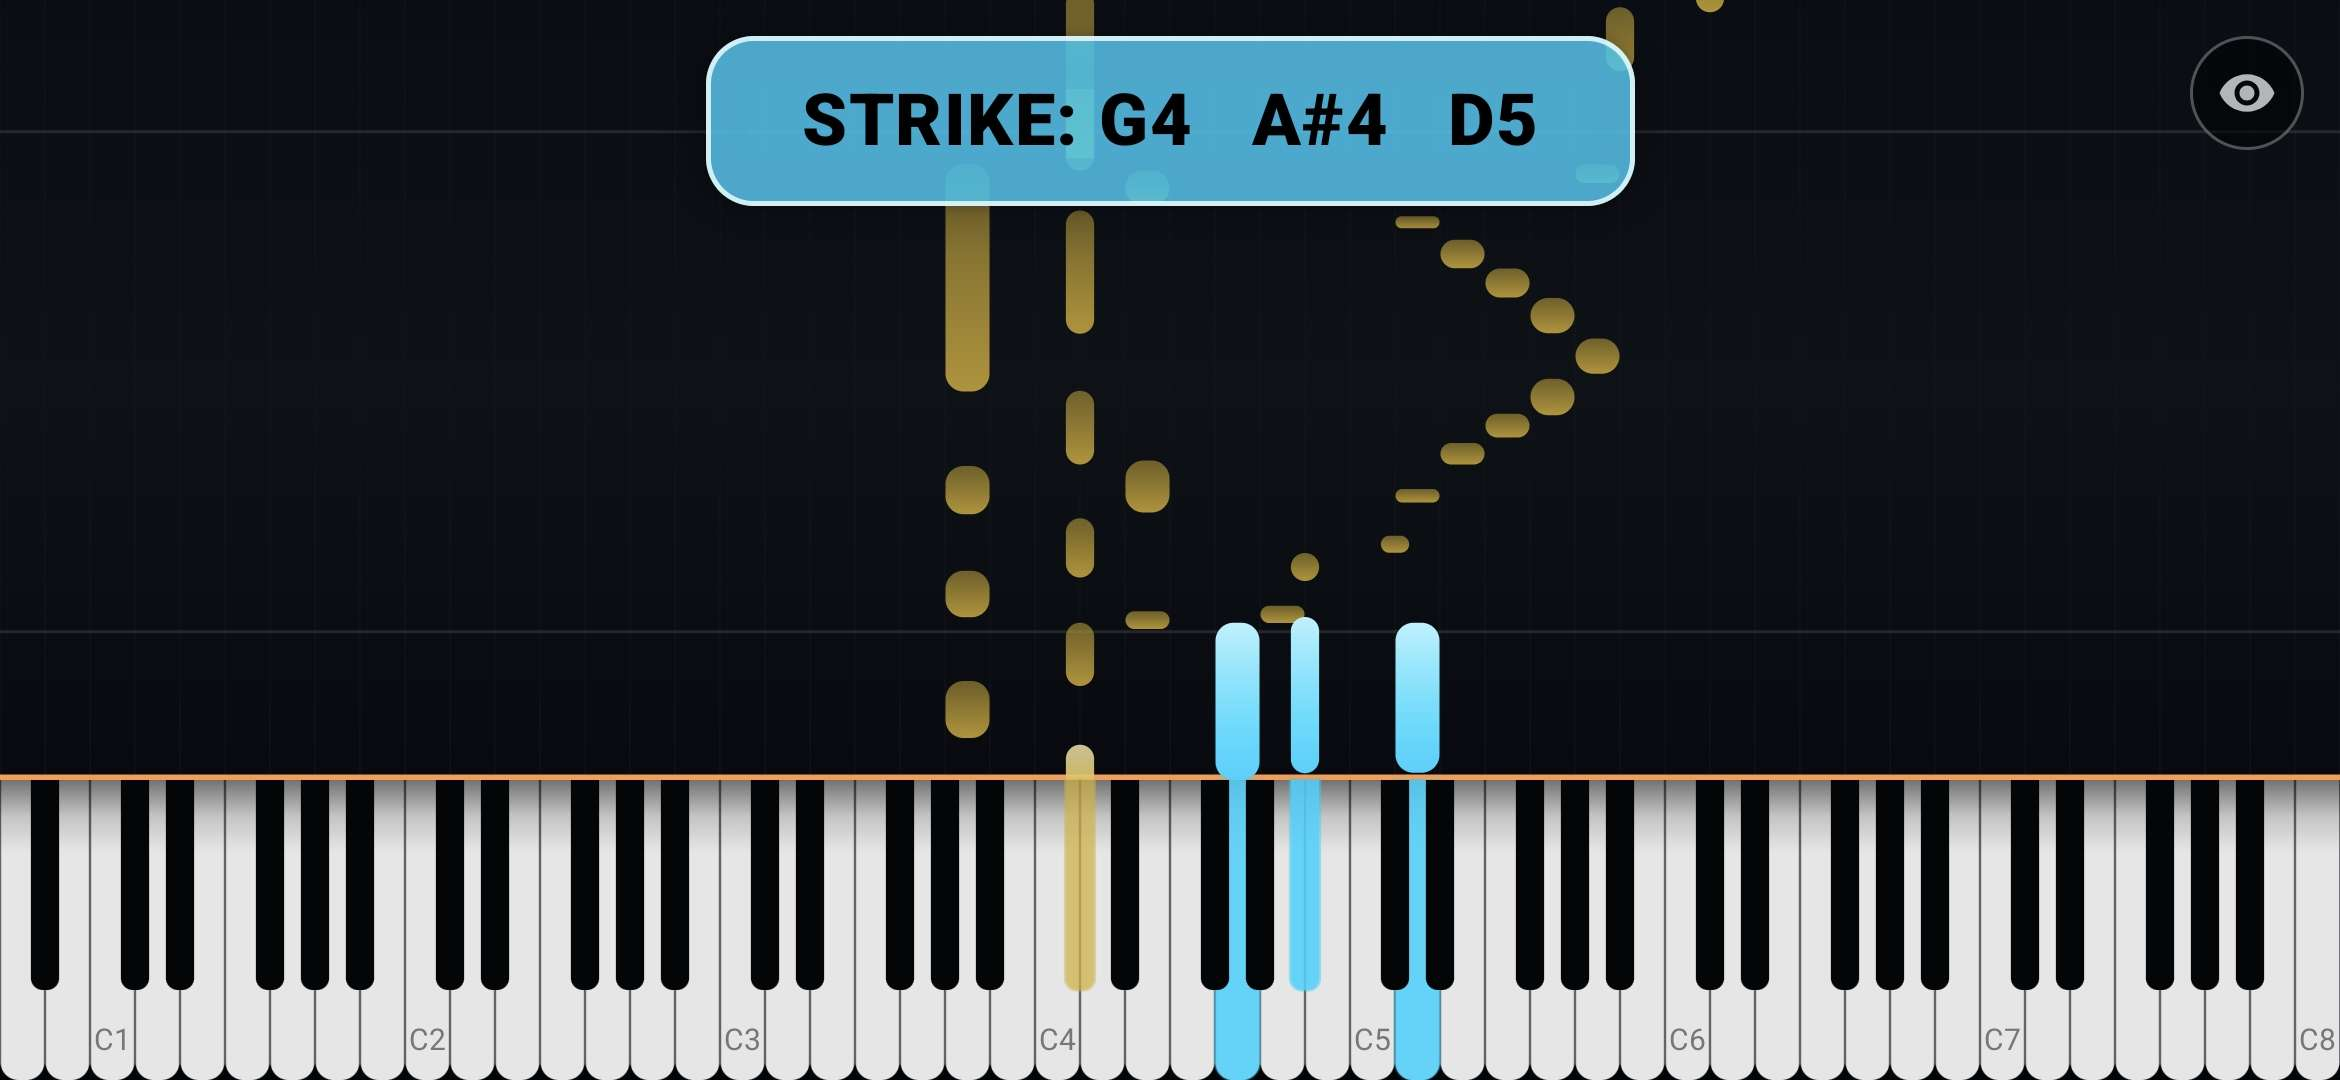
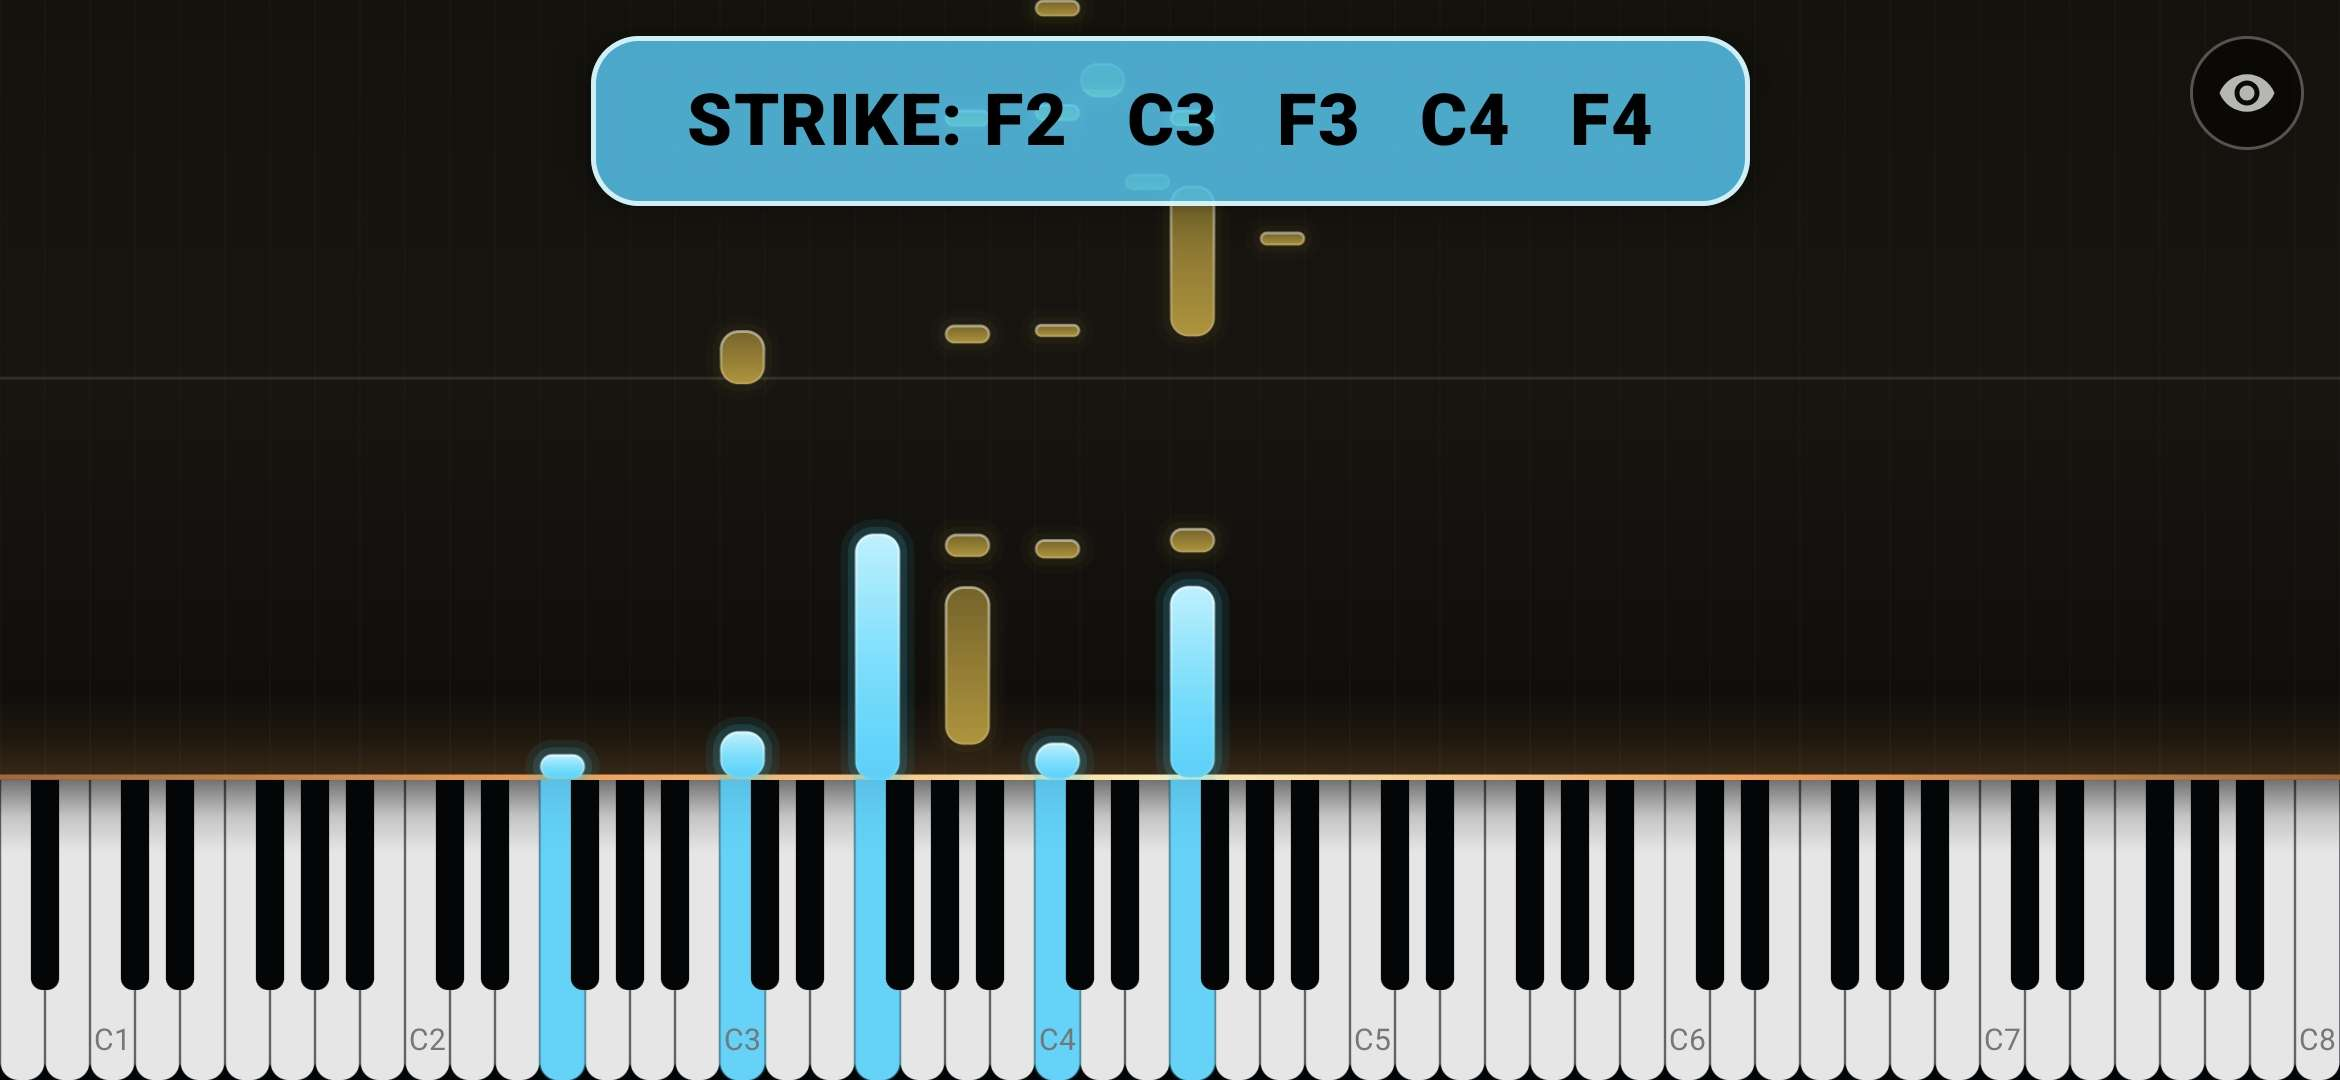
Update screenshots and layout in README
- Add new screenshots for MIDI Library and Interactive Piano Roll with controls.
- Reorganize the screenshots section into a 2x2 grid table.
- Update existing landscape screenshot assets for transcription and piano roll screens.

diff --git a/README.md b/README.md
@@ -22,9 +22,13 @@
 
 ## 📱 Screenshots
 
-|                                            AI Transcription                                           |                                         Interactive Piano Roll                                          |
+| AI Transcription | MIDI Library |
 | :---------------------------------------------------------------------------------------------------: | :------------------------------------------------------------------------------------------------------: |
-| <img src="screenshots/transcription_landscape.jpg" width="100%" alt="AI Transcription Screen" /> | <img src="screenshots/piano_roll_landscape.jpg" width="100%" alt="Interactive Piano Roll Screen" /> |
+| <img src="screenshots/transcription_landscape.jpg" width="100%" alt="AI Transcription Screen" /> | <img src="screenshots/midi_library.jpg" width="100%" alt="MIDI Library Screen" /> |
+
+| Interactive Piano Roll | Interactive Piano Roll (with Controls) |
+| :---------------------------------------------------------------------------------------------------: | :------------------------------------------------------------------------------------------------------: |
+| <img src="screenshots/piano_roll_landscape.jpg" width="100%" alt="Interactive Piano Roll Screen" /> | <img src="screenshots/piano_roll_landscape_2.jpg" width="100%" alt="Interactive Piano Roll with Controls" /> |
 
 ## ✨ Features
 
